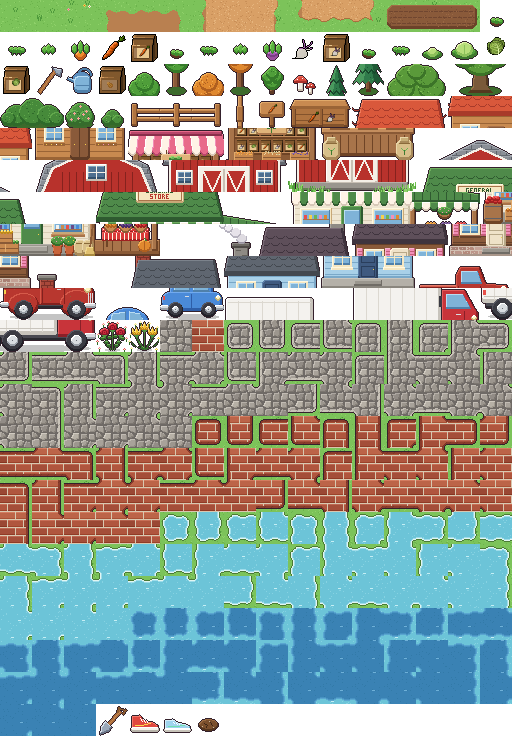
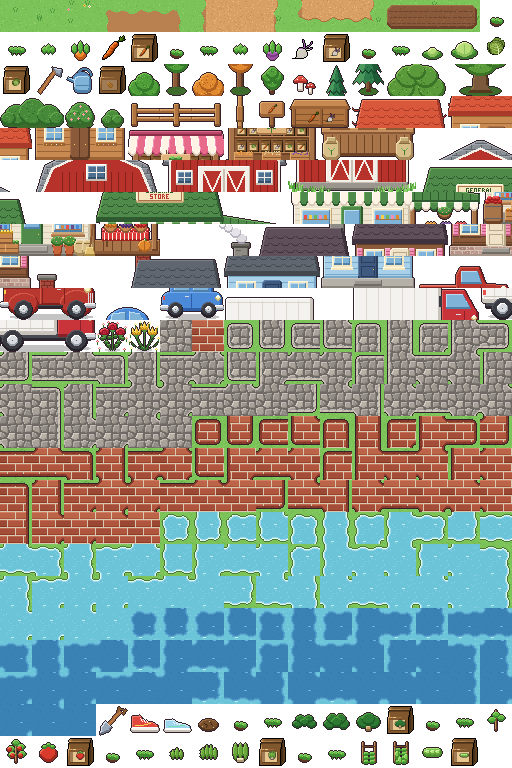
Seasonal crops (spinach, tomatoes, arugula, peas) and time-of-day and seasonal villager chatter
Seasonal crops only grow in their season, wither when it ends, and the
seed shop sells them in season. Quests only ask for crops in season.

Claude-Session: https://claude.ai/code/session_015p9zHqe761HPZ9r97hGy59

diff --git a/src/scenes.js b/src/scenes.js
@@ -1,9 +1,9 @@
 // Game scenes: main menu -> character select -> farm.
 import { TILE, DIRS, Walker } from './engine.js';
-import { Clock, MAX_ENERGY, SEASONS } from './clock.js';
+import { Clock, MAX_ENERGY, SEASONS, DAYS_PER_SEASON } from './clock.js';
 import { editorMaps, exitRows, isPaved } from './map-data.js';
 import { LOCATIONS } from './locations.js';
-import { CROPS, SEEDS, Field } from './crops.js';
+import { CROPS, SEEDS, Field, aCrop, nCrops, inSeason } from './crops.js';
 import { settings, saveSettings, DAY_SPEEDS, sfx, playMusic, stopMusic, musicName } from './audio.js';
 import { SLOTS, listSaves, readSave, writeSave, deleteSave } from './save.js';
 import { Villager, spawnVillagers, randomSpot, fits, feet, overlaps, planRoute, KEEPERS } from './villagers.js';
@@ -11,7 +11,7 @@ import { SCHEDULES, activity, weekday } from './schedule.js';
 import { GOODS, STORE_HOURS, WEAR_SLOTS, storeOpen } from './store.js';
 import { PLANTS, DIG_SPOTS, DIG_ENERGY, scatterDigs, digFind } from './dig.js';
 import { A } from './art-index.js';
-import { Support, PEOPLE, PERK_AT, MAX_HEARTS } from './support.js';
+import { Support, PEOPLE, PERK_AT, MAX_HEARTS, chatter } from './support.js';
 import { Inventory, TOOLS, HOTBAR, LOCKED, BAG, BIN } from './inventory.js';
 
 const CHARACTERS = [
@@ -180,7 +180,7 @@ export class World {
     this.support = new Support(); this.talk = null; this.fade = null;
     this.inv = new Inventory();
     this.gold = 200;
-    this.seeds = { carrot: 5, turnip: 0, cabbage: 0 };
+    this.seeds = { ...Object.fromEntries(SEEDS.map(c => [c, 0])), carrot: 5 };
     this.gear = {}; // things bought at the general store: id -> true
     this.worn = {}; // equipment slot -> id from GOODS
     this.moved = { gone: [], put: [] }; // farm plants moved with the shovel: tiles dug up, and [tile, plant] planted
@@ -189,15 +189,17 @@ export class World {
     this.shop = false;
     this.open = false; this.pick = -1;
     this.clock.on('overnight', () => {
-      this.field.overnight(); this.support.overnight(); this.scatterDigs();
-      this.paid = this.binValue(this.inv.emptyBin());
+      const k = this.clock, next = k.day >= DAYS_PER_SEASON ? (k.season + 1) % SEASONS.length : k.season;
+      this.field.overnight(); this.support.overnight(Math.random, next); this.scatterDigs();
+      this.paid = this.binValue(this.inv.emptyBin()); this.withered = 0;
       this.gold += this.paid;
     });
     this.toast = '';
+    this.clock.on('season', k => { this.withered = this.field.wither(k.season); });
     this.clock.on('newDay', ({ passedOut }) => {
       this.map = this.maps.farm; Object.assign(this, this.map.spawn); this.player.dir = DIRS.down; // wake up outside the front door
       const saved = writeSave(this.slot, this.snapshot());
-      this.say((passedOut ? 'You passed out! Half energy today.' : 'Good morning!') + (this.paid ? ` Shipping paid ${this.paid}g.` : '') + (saved ? ' Game saved.' : ''));
+      this.say((passedOut ? 'You passed out! Half energy today.' : 'Good morning!') + (this.paid ? ` Shipping paid ${this.paid}g.` : '') + (this.withered ? ` ${this.withered} out-of-season crop${this.withered > 1 ? 's' : ''} withered.` : '') + (saved ? ' Game saved.' : ''));
     });
     if (this.save) this.restore(this.save); else writeSave(this.slot, this.snapshot());
     playMusic(); // one of two tracks, picked at random each time you enter
@@ -216,7 +218,7 @@ export class World {
     Object.assign(this.clock, s.clock);
     for (const [key, p] of s.plots) if (this.field.has(key)) this.field.plots.set(key, p);
     this.inv.slots = s.slots; this.inv.sel = s.sel;
-    Object.assign(this, { gold: s.gold, seeds: s.seeds, seed: s.seed, gear: s.gear ?? {}, worn: s.worn ?? (s.gear?.shoes ? { shoes: 'shoes' } : {}) });
+    Object.assign(this, { gold: s.gold, seeds: { ...this.seeds, ...s.seeds }, seed: s.seed, gear: s.gear ?? {}, worn: s.worn ?? (s.gear?.shoes ? { shoes: 'shoes' } : {}) });
     this.moved = s.moved ?? { gone: [], put: [] };
     for (const key of this.moved.gone) this.unplant(key);
     for (const [key, id] of this.moved.put) this.plant(key, id);
@@ -255,7 +257,7 @@ export class World {
     if (inp.hit('Slash') || inp.tapIn(...b.help)) return this.openMenu('controls', null);
     if (inp.hit('KeyM') || inp.tapIn(...b.map)) { this.mapView = true; this.mini = null; this.open = this.binOpen = false; return sfx('click'); }
     if (inp.hit('KeyI', ...(this.open ? ['Escape'] : [])) || inp.tapIn(...b.bag) || (this.open && inp.tapIn(...this.closeRect()))) { this.open = !this.open; this.binOpen = false; this.pick = -1; }
-    if (inp.hit('KeyQ', 'Tab')) this.seed = (this.seed + 1) % SEEDS.length;
+    if (inp.hit('KeyQ', 'Tab')) this.nextSeed();
     for (let i = 0; i < HOTBAR; i++) if (inp.hit('Digit' + (i + 1))) inv.sel = i;
     // Tap a slot: select it (tap the seed bag again to change seeds). With the bag open, tap two slots to swap them.
     const n = !this.open ? HOTBAR : HOTBAR + BAG + (this.binOpen ? BIN : 0);
@@ -263,7 +265,7 @@ export class World {
       if (this.open && i >= LOCKED) {
         if (this.pick < 0) this.pick = i; else { inv.swap(this.pick, i); this.pick = -1; }
       } else if (i < HOTBAR) {
-        if (inv.sel === i && inv.held?.id === 'seeds') this.seed = (this.seed + 1) % SEEDS.length;
+        if (inv.sel === i && inv.held?.id === 'seeds') this.nextSeed();
         inv.sel = i;
       }
     }
@@ -360,16 +362,17 @@ export class World {
     if (this.map.bin.includes(key)) { this.open = this.binOpen = true; this.pick = -1; return; }
     if (held === 'shovel') return this.dig(key);
     if (PLANTS[held]) return this.replant(key, held);
-    if (!this.onFarm || !f.has(key)) return CROPS[held] && this.say(`That's a ${CROPS[held].name}.`);
+    if (!this.onFarm || !f.has(key)) return CROPS[held] && this.say(`That's ${aCrop(held)}.`);
     const p = f.get(key), tired = () => { sfx('nope'); this.say('Too tired. Sleep at your front door.'); };
     if (f.isRipe(p)) {
       if (!this.inv.add(p.crop)) return this.say('Your bag is full.');
-      sfx('harvest'); f.act(key); return this.say(`Harvested a ${CROPS[p.crop].name}!`);
+      sfx('harvest'); f.act(key); return this.say(`Harvested ${aCrop(p.crop)}!`);
     }
     if (held === 'seeds') {
       if (p) return this.say(`Something is already growing here.`);
       const seed = SEEDS[this.seed];
       if (!this.seeds[seed]) return this.say(`Out of ${CROPS[seed].name} seeds. Buy more at the shop.`);
+      if (!inSeason(seed, this.clock.season)) return this.say(`${CROPS[seed].name} only grows in ${SEASONS[CROPS[seed].season]}.`);
       if (!this.clock.useEnergy(1)) return tired();
       this.seeds[seed]--;
       sfx('plant'); const r = f.act(key, seed); return this.say(`Planted ${CROPS[r.crop].name} seeds. Water them daily.`);
@@ -402,7 +405,7 @@ export class World {
     const id = v.walker.sheet, who = PEOPLE[id], sup = this.support, held = this.inv.held?.id;
     if (!who) return;
     v.walker.dir = [DIRS.up, DIRS.right, DIRS.left, DIRS.down][this.player.dir]; v.wait = Math.max(v.wait, 2); // turn to face you
-    const lines = [], name = c => CROPS[c].name.toLowerCase();
+    const lines = [], cap = t => t[0].toUpperCase() + t.slice(1);
     let rewards = [];
     const done = sup.turnIn(id, c => this.inv.count(c), (c, n) => this.inv.take(c, n));
     if (done) {
@@ -413,15 +416,16 @@ export class World {
       if (!r) lines.push(`You already gave me something today. Come back tomorrow!`);
       else {
         this.inv.take(held, 1); rewards = r.rewards; sfx(r.taste === 'dislike' ? 'nope' : 'harvest');
-        lines.push({ love: `A ${name(held)}! I love these! Thank you!`, like: `Oh, a ${name(held)}. Thanks!`,
-          neutral: `A ${name(held)}? Thanks, I suppose.`, dislike: `Ugh... a ${name(held)}. Not my favourite.` }[r.taste]);
+        lines.push({ love: `${cap(aCrop(held))}! I love these! Thank you!`, like: `Oh, ${aCrop(held)}. Thanks!`,
+          neutral: `${cap(aCrop(held))}? Thanks, I suppose.`, dislike: `Ugh... ${aCrop(held)}. Not my favourite.` }[r.taste]);
       }
     } else {
       rewards = sup.talk(id);
-      lines.push(who.hello[Math.floor(Math.random() * who.hello.length)]);
+      const say = [...who.hello, ...chatter(this.clock.minutes, this.clock.season)];
+      lines.push(say[Math.floor(Math.random() * say.length)]);
     }
     const q = sup.people[id].quest;
-    if (q) lines.push(`Could you bring me ${q.n} ${name(q.item)}${q.n > 1 ? 's' : ''}? I'll pay ${q.gold}g. (${q.days} day${q.days > 1 ? 's' : ''} left)`);
+    if (q) lines.push(`Could you bring me ${q.n} ${nCrops(q.item, q.n)}? I'll pay ${q.gold}g. (${q.days} day${q.days > 1 ? 's' : ''} left)`);
     for (const r of rewards) {
       const got = [r.gold && `${r.gold}g`, ...Object.entries(r.seeds ?? {}).map(([c, n]) => `${n} ${CROPS[c].name} seeds`)].filter(Boolean);
       if (r.gold) this.gold += r.gold;
@@ -536,7 +540,7 @@ export class World {
       g.text(who.name, x + 8, yy, { size: 6, color: '#fff3a8' });
       drawHearts(g, x + w - 8 - MAX_HEARTS * 6, yy + 2, n);
       const q = p.quest;
-      g.text(q ? `Wants ${q.n} ${CROPS[q.item].name}${q.n > 1 ? "s" : ""} · ${q.gold}g · ${q.days}d left` : 'No request right now', x + 8, yy + 8, { size: 5 });
+      g.text(q ? `Wants ${q.n} ${nCrops(q.item, q.n)} · ${q.gold}g · ${q.days}d left` : 'No request right now', x + 8, yy + 8, { size: 5 });
       g.text(`${n >= PERK_AT ? 'Perk' : `Perk at ${PERK_AT} hearts`}: ${who.perk.text}`, x + 8, yy + 15, { size: 5, color: n >= PERK_AT ? '#86cf5e' : '#dcebc6' });
     });
     if (this.menu === 'equipment') {
@@ -591,7 +595,7 @@ export class World {
       const f = digFind(); m.digs.delete(key); sfx('dig');
       if (f.gold) { this.gold += f.gold; sfx('coin'); return this.say(`Found some old coins! (+${f.gold}g)`); }
       if (f.seeds) { this.seeds[f.seeds] += f.n; return this.say(`Found ${f.n} ${CROPS[f.seeds].name} seeds!`); }
-      if (f.item) return this.say(this.inv.add(f.item) ? `Found a wild ${CROPS[f.item].name}!` : 'Found something, but your bag is full.');
+      if (f.item) return this.say(this.inv.add(f.item) ? `Found ${aCrop(f.item)}, growing wild!` : 'Found something, but your bag is full.');
       if (f.plant) return this.say(this.inv.add(f.plant) ? `Found ${PLANTS[f.plant].name}! Plant it on your farm.` : 'Found something, but your bag is full.');
       return this.say('Just dirt this time.');
     }
@@ -627,10 +631,16 @@ export class World {
     this.shop = v.walker.sheet; sfx('click');
   }
 
-  // Seed shop: buy seeds, sell crops.
+  // Next seed you have any of (Q, or tapping the seed bag again).
+  nextSeed() {
+    for (let i = 1; i <= SEEDS.length; i++) if (this.seeds[SEEDS[(this.seed + i) % SEEDS.length]]) { this.seed = (this.seed + i) % SEEDS.length; return; }
+    this.seed = (this.seed + 1) % SEEDS.length;
+  }
+  // Seed shop: buy seeds (year-round ones and this season's), sell crops.
+  shopSeeds() { return SEEDS.filter(c => inSeason(c, this.clock.season)); }
   shopRows() {
-    const g = this.g, x = Math.round(g.w / 2 - 70), y = Math.round(g.h / 2 - 56);
-    return { x, y, buy: SEEDS.map((_, i) => [x + 4, y + 16 + i * 20, 132, 18]), sell: [x + 4, y + 78, 64, 14], close: [x + 72, y + 78, 64, 14] };
+    const g = this.g, n = this.shopSeeds().length, h = 38 + n * 20, x = Math.round(g.w / 2 - 70), y = Math.round(g.h / 2 - h / 2);
+    return { x, y, h, buy: this.shopSeeds().map((_, i) => [x + 4, y + 16 + i * 20, 132, 18]), sell: [x + 4, y + 18 + n * 20, 64, 14], close: [x + 72, y + 18 + n * 20, 64, 14] };
   }
   shopUpdate(inp, dt) {
     const r = this.shopRows();
@@ -638,7 +648,7 @@ export class World {
     if (this.toastT > 0) this.toastT -= dt;
     this.player.update(dt, false);
     if (this.shop === 'storekeeper') return this.storeUpdate(inp);
-    SEEDS.forEach((s, i) => {
+    this.shopSeeds().forEach((s, i) => {
       if (!inp.hit('Digit' + (i + 1)) && !inp.tapIn(...r.buy[i])) return;
       const c = CROPS[s];
       if (this.gold < this.seedCost(c)) return this.say(`Not enough gold for ${c.name} seeds.`);
@@ -653,11 +663,11 @@ export class World {
   drawShop() {
     if (this.shop === 'storekeeper') return this.drawStore();
     const g = this.g, r = this.shopRows();
-    g.panel(r.x, r.y, 140, 96, '#3f2631ee');
+    g.panel(r.x, r.y, 140, r.h, '#3f2631ee');
     const keeper = typeof this.shop === 'string' && this.shop; // whose shop (true: an old-style shop with no keeper)
     if (keeper && this.villagers.some(v => v.walker.sheet === keeper)) { g.panel(r.x - 26, r.y, 24, 24, '#3f2631ee'); new Walker(keeper).draw(g, r.x - 22, r.y + 2); }
     g.text(`${KEEPERS[keeper]?.title ?? 'Seed Shop'} · ${this.gold}g`, r.x + 70, r.y + 4, { size: 7, align: 'center', color: '#fff3a8' });
-    SEEDS.forEach((s, i) => {
+    this.shopSeeds().forEach((s, i) => {
       const c = CROPS[s], [x, y, w, h] = r.buy[i];
       g.panel(x, y, w, h, '#5d7150cc');
       g.tile(c.packet, x + 1, y + 1);

diff --git a/src/art-index.js b/src/art-index.js
@@ -1,2 +1,2 @@
 // Generated by tools/make_art.py: tile names -> index in assets/art/world.png (16 columns of 32x32).
-export const A = {"grass0": 0, "grass1": 1, "grass2": 2, "path0": 3, "path1": 4, "path2": 5, "path3": 6, "path4": 7, "path5": 8, "path6": 9, "path7": 10, "path8": 11, "soil0": 12, "soil1": 13, "soil2": 14, "carrot0": 15, "carrot1": 16, "carrot2": 17, "carrot3": 18, "carrot_item": 19, "carrot_packet": 20, "turnip0": 21, "turnip1": 22, "turnip2": 23, "turnip3": 24, "turnip_item": 25, "turnip_packet": 26, "cabbage0": 27, "cabbage1": 28, "cabbage2": 29, "cabbage3": 30, "cabbage_item": 31, "cabbage_packet": 32, "hoe": 33, "can": 34, "bag": 35, "tree_green_0": 36, "tree_green_1": 37, "tree_orange_0": 38, "tree_orange_1": 39, "tree": 40, "mushrooms": 41, "pine_0": 42, "pine_1": 43, "oak_0": 44, "oak_1": 45, "oak_2": 46, "oak_3": 47, "shrub_large_0": 48, "shrub_large_1": 49, "shrub_flower": 50, "shrub_small": 51, "fence0": 52, "fence1": 53, "fence2": 54, "fence3": 55, "sign": 56, "bin_0": 57, "bin_1": 58, "house_0": 59, "house_1": 60, "house_2": 61, "house_3": 62, "house_4": 63, "house_5": 64, "house_6": 65, "house_7": 66, "house_8": 67, "shop_0": 68, "shop_1": 69, "shop_2": 70, "shop_3": 71, "shop_4": 72, "shop_5": 73, "shop_6": 74, "shop_7": 75, "shop_8": 76, "barn_0": 77, "barn_1": 78, "barn_2": 79, "barn_3": 80, "barn_4": 81, "barn_5": 82, "barn_6": 83, "barn_7": 84, "barn_8": 85, "barn_9": 86, "barn_10": 87, "barn_11": 88, "barn_12": 89, "barn_13": 90, "barn_14": 91, "barn_15": 92, "store_0": 93, "store_1": 94, "store_2": 95, "store_3": 96, "store_4": 97, "store_5": 98, "store_6": 99, "store_7": 100, "store_8": 101, "store_9": 102, "store_10": 103, "store_11": 104, "store_12": 105, "store_13": 106, "store_14": 107, "store_15": 108, "store_16": 109, "store_17": 110, "store_18": 111, "store_19": 112, "store_20": 113, "store_21": 114, "store_22": 115, "store_23": 116, "house_brown_0": 117, "house_brown_1": 118, "house_brown_2": 119, "house_brown_3": 120, "house_brown_4": 121, "house_brown_5": 122, "house_brown_6": 123, "house_brown_7": 124, "house_brown_8": 125, "house_brown_9": 126, "house_brown_10": 127, "house_brown_11": 128, "house_blue_0": 129, "house_blue_1": 130, "house_blue_2": 131, "house_blue_3": 132, "house_blue_4": 133, "house_blue_5": 134, "house_blue_6": 135, "house_blue_7": 136, "house_blue_8": 137, "house_blue_9": 138, "house_blue_10": 139, "house_blue_11": 140, "pickup_0": 141, "pickup_1": 142, "pickup_2": 143, "pickup_3": 144, "pickup_4": 145, "pickup_5": 146, "car_small_0": 147, "car_small_1": 148, "car_small_2": 149, "car_small_3": 150, "box_truck_0": 151, "box_truck_1": 152, "box_truck_2": 153, "box_truck_3": 154, "box_truck_4": 155, "box_truck_5": 156, "box_truck_6": 157, "box_truck_7": 158, "box_truck_8": 159, "box_truck_9": 160, "box_truck_10": 161, "box_truck_11": 162, "roses": 163, "tulips": 164, "cobble0": 165, "brick0": 166, "cobbleb0": 167, "cobbleb1": 168, "cobbleb2": 169, "cobbleb3": 170, "cobbleb4": 171, "cobbleb5": 172, "cobbleb6": 173, "cobbleb7": 174, "cobbleb8": 175, "cobbleb9": 176, "cobbleb10": 177, "cobbleb11": 178, "cobbleb12": 179, "cobbleb13": 180, "cobbleb14": 181, "cobbleb15": 182, "cobbleb16": 183, "cobbleb17": 184, "cobbleb18": 185, "cobbleb19": 186, "cobbleb20": 187, "cobbleb21": 188, "cobbleb22": 189, "cobbleb23": 190, "cobbleb24": 191, "cobbleb25": 192, "cobbleb26": 193, "cobbleb27": 194, "cobbleb28": 195, "cobbleb29": 196, "cobbleb30": 197, "cobbleb31": 198, "cobbleb32": 199, "cobbleb33": 200, "cobbleb34": 201, "cobbleb35": 202, "cobbleb36": 203, "cobbleb37": 204, "cobbleb38": 205, "cobbleb39": 206, "cobbleb40": 207, "cobbleb41": 208, "cobbleb42": 209, "cobbleb43": 210, "cobbleb44": 211, "cobbleb45": 212, "cobbleb46": 213, "brickb0": 214, "brickb1": 215, "brickb2": 216, "brickb3": 217, "brickb4": 218, "brickb5": 219, "brickb6": 220, "brickb7": 221, "brickb8": 222, "brickb9": 223, "brickb10": 224, "brickb11": 225, "brickb12": 226, "brickb13": 227, "brickb14": 228, "brickb15": 229, "brickb16": 230, "brickb17": 231, "brickb18": 232, "brickb19": 233, "brickb20": 234, "brickb21": 235, "brickb22": 236, "brickb23": 237, "brickb24": 238, "brickb25": 239, "brickb26": 240, "brickb27": 241, "brickb28": 242, "brickb29": 243, "brickb30": 244, "brickb31": 245, "brickb32": 246, "brickb33": 247, "brickb34": 248, "brickb35": 249, "brickb36": 250, "brickb37": 251, "brickb38": 252, "brickb39": 253, "brickb40": 254, "brickb41": 255, "brickb42": 256, "brickb43": 257, "brickb44": 258, "brickb45": 259, "brickb46": 260, "shallow0": 261, "shallow1": 262, "shallow2": 263, "shallow3": 264, "shallow4": 265, "shallow5": 266, "shallow6": 267, "shallow7": 268, "shallow8": 269, "shallow9": 270, "shallow10": 271, "shallow11": 272, "shallow12": 273, "shallow13": 274, "shallow14": 275, "shallow15": 276, "shallow16": 277, "shallow17": 278, "shallow18": 279, "shallow19": 280, "shallow20": 281, "shallow21": 282, "shallow22": 283, "shallow23": 284, "shallow24": 285, "shallow25": 286, "shallow26": 287, "shallow27": 288, "shallow28": 289, "shallow29": 290, "shallow30": 291, "shallow31": 292, "shallow32": 293, "shallow33": 294, "shallow34": 295, "shallow35": 296, "shallow36": 297, "shallow37": 298, "shallow38": 299, "shallow39": 300, "shallow40": 301, "shallow41": 302, "shallow42": 303, "shallow43": 304, "shallow44": 305, "shallow45": 306, "shallow46": 307, "deep0": 308, "deep1": 309, "deep2": 310, "deep3": 311, "deep4": 312, "deep5": 313, "deep6": 314, "deep7": 315, "deep8": 316, "deep9": 317, "deep10": 318, "deep11": 319, "deep12": 320, "deep13": 321, "deep14": 322, "deep15": 323, "deep16": 324, "deep17": 325, "deep18": 326, "deep19": 327, "deep20": 328, "deep21": 329, "deep22": 330, "deep23": 331, "deep24": 332, "deep25": 333, "deep26": 334, "deep27": 335, "deep28": 336, "deep29": 337, "deep30": 338, "deep31": 339, "deep32": 340, "deep33": 341, "deep34": 342, "deep35": 343, "deep36": 344, "deep37": 345, "deep38": 346, "deep39": 347, "deep40": 348, "deep41": 349, "deep42": 350, "deep43": 351, "deep44": 352, "deep45": 353, "deep46": 354, "shovel": 355, "shoes": 356, "sneakers": 357, "dig_spot": 358};
+export const A = {"grass0": 0, "grass1": 1, "grass2": 2, "path0": 3, "path1": 4, "path2": 5, "path3": 6, "path4": 7, "path5": 8, "path6": 9, "path7": 10, "path8": 11, "soil0": 12, "soil1": 13, "soil2": 14, "carrot0": 15, "carrot1": 16, "carrot2": 17, "carrot3": 18, "carrot_item": 19, "carrot_packet": 20, "turnip0": 21, "turnip1": 22, "turnip2": 23, "turnip3": 24, "turnip_item": 25, "turnip_packet": 26, "cabbage0": 27, "cabbage1": 28, "cabbage2": 29, "cabbage3": 30, "cabbage_item": 31, "cabbage_packet": 32, "hoe": 33, "can": 34, "bag": 35, "tree_green_0": 36, "tree_green_1": 37, "tree_orange_0": 38, "tree_orange_1": 39, "tree": 40, "mushrooms": 41, "pine_0": 42, "pine_1": 43, "oak_0": 44, "oak_1": 45, "oak_2": 46, "oak_3": 47, "shrub_large_0": 48, "shrub_large_1": 49, "shrub_flower": 50, "shrub_small": 51, "fence0": 52, "fence1": 53, "fence2": 54, "fence3": 55, "sign": 56, "bin_0": 57, "bin_1": 58, "house_0": 59, "house_1": 60, "house_2": 61, "house_3": 62, "house_4": 63, "house_5": 64, "house_6": 65, "house_7": 66, "house_8": 67, "shop_0": 68, "shop_1": 69, "shop_2": 70, "shop_3": 71, "shop_4": 72, "shop_5": 73, "shop_6": 74, "shop_7": 75, "shop_8": 76, "barn_0": 77, "barn_1": 78, "barn_2": 79, "barn_3": 80, "barn_4": 81, "barn_5": 82, "barn_6": 83, "barn_7": 84, "barn_8": 85, "barn_9": 86, "barn_10": 87, "barn_11": 88, "barn_12": 89, "barn_13": 90, "barn_14": 91, "barn_15": 92, "store_0": 93, "store_1": 94, "store_2": 95, "store_3": 96, "store_4": 97, "store_5": 98, "store_6": 99, "store_7": 100, "store_8": 101, "store_9": 102, "store_10": 103, "store_11": 104, "store_12": 105, "store_13": 106, "store_14": 107, "store_15": 108, "store_16": 109, "store_17": 110, "store_18": 111, "store_19": 112, "store_20": 113, "store_21": 114, "store_22": 115, "store_23": 116, "house_brown_0": 117, "house_brown_1": 118, "house_brown_2": 119, "house_brown_3": 120, "house_brown_4": 121, "house_brown_5": 122, "house_brown_6": 123, "house_brown_7": 124, "house_brown_8": 125, "house_brown_9": 126, "house_brown_10": 127, "house_brown_11": 128, "house_blue_0": 129, "house_blue_1": 130, "house_blue_2": 131, "house_blue_3": 132, "house_blue_4": 133, "house_blue_5": 134, "house_blue_6": 135, "house_blue_7": 136, "house_blue_8": 137, "house_blue_9": 138, "house_blue_10": 139, "house_blue_11": 140, "pickup_0": 141, "pickup_1": 142, "pickup_2": 143, "pickup_3": 144, "pickup_4": 145, "pickup_5": 146, "car_small_0": 147, "car_small_1": 148, "car_small_2": 149, "car_small_3": 150, "box_truck_0": 151, "box_truck_1": 152, "box_truck_2": 153, "box_truck_3": 154, "box_truck_4": 155, "box_truck_5": 156, "box_truck_6": 157, "box_truck_7": 158, "box_truck_8": 159, "box_truck_9": 160, "box_truck_10": 161, "box_truck_11": 162, "roses": 163, "tulips": 164, "cobble0": 165, "brick0": 166, "cobbleb0": 167, "cobbleb1": 168, "cobbleb2": 169, "cobbleb3": 170, "cobbleb4": 171, "cobbleb5": 172, "cobbleb6": 173, "cobbleb7": 174, "cobbleb8": 175, "cobbleb9": 176, "cobbleb10": 177, "cobbleb11": 178, "cobbleb12": 179, "cobbleb13": 180, "cobbleb14": 181, "cobbleb15": 182, "cobbleb16": 183, "cobbleb17": 184, "cobbleb18": 185, "cobbleb19": 186, "cobbleb20": 187, "cobbleb21": 188, "cobbleb22": 189, "cobbleb23": 190, "cobbleb24": 191, "cobbleb25": 192, "cobbleb26": 193, "cobbleb27": 194, "cobbleb28": 195, "cobbleb29": 196, "cobbleb30": 197, "cobbleb31": 198, "cobbleb32": 199, "cobbleb33": 200, "cobbleb34": 201, "cobbleb35": 202, "cobbleb36": 203, "cobbleb37": 204, "cobbleb38": 205, "cobbleb39": 206, "cobbleb40": 207, "cobbleb41": 208, "cobbleb42": 209, "cobbleb43": 210, "cobbleb44": 211, "cobbleb45": 212, "cobbleb46": 213, "brickb0": 214, "brickb1": 215, "brickb2": 216, "brickb3": 217, "brickb4": 218, "brickb5": 219, "brickb6": 220, "brickb7": 221, "brickb8": 222, "brickb9": 223, "brickb10": 224, "brickb11": 225, "brickb12": 226, "brickb13": 227, "brickb14": 228, "brickb15": 229, "brickb16": 230, "brickb17": 231, "brickb18": 232, "brickb19": 233, "brickb20": 234, "brickb21": 235, "brickb22": 236, "brickb23": 237, "brickb24": 238, "brickb25": 239, "brickb26": 240, "brickb27": 241, "brickb28": 242, "brickb29": 243, "brickb30": 244, "brickb31": 245, "brickb32": 246, "brickb33": 247, "brickb34": 248, "brickb35": 249, "brickb36": 250, "brickb37": 251, "brickb38": 252, "brickb39": 253, "brickb40": 254, "brickb41": 255, "brickb42": 256, "brickb43": 257, "brickb44": 258, "brickb45": 259, "brickb46": 260, "shallow0": 261, "shallow1": 262, "shallow2": 263, "shallow3": 264, "shallow4": 265, "shallow5": 266, "shallow6": 267, "shallow7": 268, "shallow8": 269, "shallow9": 270, "shallow10": 271, "shallow11": 272, "shallow12": 273, "shallow13": 274, "shallow14": 275, "shallow15": 276, "shallow16": 277, "shallow17": 278, "shallow18": 279, "shallow19": 280, "shallow20": 281, "shallow21": 282, "shallow22": 283, "shallow23": 284, "shallow24": 285, "shallow25": 286, "shallow26": 287, "shallow27": 288, "shallow28": 289, "shallow29": 290, "shallow30": 291, "shallow31": 292, "shallow32": 293, "shallow33": 294, "shallow34": 295, "shallow35": 296, "shallow36": 297, "shallow37": 298, "shallow38": 299, "shallow39": 300, "shallow40": 301, "shallow41": 302, "shallow42": 303, "shallow43": 304, "shallow44": 305, "shallow45": 306, "shallow46": 307, "deep0": 308, "deep1": 309, "deep2": 310, "deep3": 311, "deep4": 312, "deep5": 313, "deep6": 314, "deep7": 315, "deep8": 316, "deep9": 317, "deep10": 318, "deep11": 319, "deep12": 320, "deep13": 321, "deep14": 322, "deep15": 323, "deep16": 324, "deep17": 325, "deep18": 326, "deep19": 327, "deep20": 328, "deep21": 329, "deep22": 330, "deep23": 331, "deep24": 332, "deep25": 333, "deep26": 334, "deep27": 335, "deep28": 336, "deep29": 337, "deep30": 338, "deep31": 339, "deep32": 340, "deep33": 341, "deep34": 342, "deep35": 343, "deep36": 344, "deep37": 345, "deep38": 346, "deep39": 347, "deep40": 348, "deep41": 349, "deep42": 350, "deep43": 351, "deep44": 352, "deep45": 353, "deep46": 354, "shovel": 355, "shoes": 356, "sneakers": 357, "dig_spot": 358, "spinach0": 359, "spinach1": 360, "spinach2": 361, "spinach3": 362, "spinach_item": 363, "spinach_packet": 364, "tomato0": 365, "tomato1": 366, "tomato2": 367, "tomato3": 368, "tomato_item": 369, "tomato_packet": 370, "arugula0": 371, "arugula1": 372, "arugula2": 373, "arugula3": 374, "arugula_item": 375, "arugula_packet": 376, "peas0": 377, "peas1": 378, "peas2": 379, "peas3": 380, "peas_item": 381, "peas_packet": 382};

diff --git a/src/crops.js b/src/crops.js
@@ -3,8 +3,17 @@ export const CROPS = {
   carrot:  { name: 'Carrot',  days: 3, price: 35,  seed: 15, stages: ['carrot0', 'carrot1', 'carrot2', 'carrot3'],     item: 'carrot_item',  packet: 'carrot_packet' },
   turnip:  { name: 'Turnip',  days: 4, price: 50,  seed: 20, stages: ['turnip0', 'turnip1', 'turnip2', 'turnip3'], item: 'turnip_item', packet: 'turnip_packet' },
   cabbage: { name: 'Cabbage', days: 6, price: 90,  seed: 40, stages: ['cabbage0', 'cabbage1', 'cabbage2', 'cabbage3'], item: 'cabbage_item', packet: 'cabbage_packet' },
+  // Seasonal crops (season is an index into SEASONS): they only grow in their season and wither when it ends.
+  spinach: { name: 'Spinach', days: 4, price: 60,  seed: 25, season: 0, some: true, stages: ['spinach0', 'spinach1', 'spinach2', 'spinach3'], item: 'spinach_item', packet: 'spinach_packet' },
+  tomato:  { name: 'Tomato',  days: 7, price: 110, seed: 45, season: 1, plural: 'tomatoes', stages: ['tomato0', 'tomato1', 'tomato2', 'tomato3'], item: 'tomato_item', packet: 'tomato_packet' },
+  arugula: { name: 'Arugula', days: 4, price: 55,  seed: 22, season: 2, some: true, stages: ['arugula0', 'arugula1', 'arugula2', 'arugula3'], item: 'arugula_item', packet: 'arugula_packet' },
+  peas:    { name: 'Peas',    days: 5, price: 70,  seed: 30, season: 3, some: true, plural: 'peas', stages: ['peas0', 'peas1', 'peas2', 'peas3'], item: 'peas_item', packet: 'peas_packet' },
 };
 export const SEEDS = Object.keys(CROPS);
+// "a carrot" / "some peas", and "carrots" / "tomatoes" / "spinach" for n of them.
+export const aCrop = c => (CROPS[c].some ? 'some ' : 'a ') + CROPS[c].name.toLowerCase();
+export const nCrops = (c, n) => n > 1 ? CROPS[c].plural ?? CROPS[c].name.toLowerCase() + (CROPS[c].some ? '' : 's') : CROPS[c].name.toLowerCase();
+export const inSeason = (crop, season) => CROPS[crop].season === undefined || CROPS[crop].season === season;
 
 export class Field {
   constructor(plots) { this.plots = new Map(plots.map(k => [k, null])); }
@@ -34,5 +43,12 @@ export class Field {
       if (p.wet && !this.isRipe(p)) p.grown++;
       p.wet = false;
     }
+  }
+
+  // A new season: crops from the old one wither. Returns how many.
+  wither(season) {
+    let n = 0;
+    for (const [k, p] of this.plots) if (p && !inSeason(p.crop, season)) { this.plots.set(k, null); n++; }
+    return n;
   }
 }

diff --git a/src/support.js b/src/support.js
@@ -1,5 +1,5 @@
 // Support: friendship with each villager, raised by talking, gifts and quests. Hearts unlock rewards and perks.
-import { CROPS, SEEDS } from './crops.js';
+import { CROPS, SEEDS, inSeason } from './crops.js';
 
 export const PER_HEART = 100, MAX_HEARTS = 10;
 const TALK = 10, GIFT = { love: 80, like: 45, neutral: 20, dislike: -30 }, QUEST_PTS = 60, QUEST_DAYS = 3, QUEST_CHANCE = 0.35;
@@ -14,6 +14,16 @@ export const PEOPLE = {
   villager_child: { name: 'Pip', loves: ['carrot'], likes: [], dislikes: ['cabbage'],
     perk: { id: 'green_thumb', text: 'Watering takes no energy' }, hello: ['How is your farm?'] },
 };
+// Things anyone might say, by time of day (minutes since midnight) and season.
+const SEASON_LINES = ['The local flowers are beautiful! You should take a look!', "That sun is blazing! I wish I had a fan...",
+  "There's nothing like the fall colors.", 'Brrrr...'];
+export function chatter(minutes, season) {
+  const h = minutes / 60, out = [SEASON_LINES[season]];
+  if (h >= 6 && h < 11) out.push('Good morning!');
+  else if (h >= 12 && h < 16) out.push("There's so much day left!");
+  else if (h >= 16) out.push('The Sun is getting low.');
+  return out;
+}
 // Rewards for reaching each heart level, once each (the perk comes at PERK_AT).
 export const REWARDS = { 2: { gold: 100 }, 4: { seeds: 5 }, 7: { gold: 300 }, 10: { gold: 1000 } };
 
@@ -62,12 +72,14 @@ export class Support {
   }
 
   // Each night: new day's talk and gift, quests count down, and some villagers ask for something new.
-  overnight(rand = Math.random) {
+  // Quests only ask for crops that grow in `season` (the season of the coming day).
+  overnight(rand = Math.random, season) {
+    const crops = SEEDS.filter(c => season === undefined ? CROPS[c].season === undefined : inSeason(c, season));
     for (const [id, p] of Object.entries(this.people)) {
       p.talked = p.gifted = false;
       if (p.quest && --p.quest.days <= 0) p.quest = null;
       if (!p.quest && rand() < QUEST_CHANCE) {
-        const item = SEEDS[Math.floor(rand() * SEEDS.length)], n = 1 + Math.floor(rand() * 3);
+        const item = crops[Math.floor(rand() * crops.length)], n = 1 + Math.floor(rand() * 3);
         p.quest = { item, n, gold: Math.round(CROPS[item].price * n * 1.5), days: QUEST_DAYS };
       }
     }

diff --git a/test/support.test.js b/test/support.test.js
@@ -38,3 +38,14 @@ test('quests: offered overnight, handed in for gold, expire', () => {
   const saved = JSON.parse(JSON.stringify(s.state));
   assert.equal(new Support(saved).people.villager_male.pts, s.people.villager_male.pts);
 });
+
+test('villagers chat about the time of day and season, and only ask for crops in season', async () => {
+  const { chatter } = await import('../src/support.js');
+  assert.deepEqual(chatter(7 * 60, 3), ['Brrrr...', 'Good morning!']);
+  assert.equal(chatter(13 * 60, 0)[1], "There's so much day left!");
+  assert.equal(chatter(17 * 60, 1)[1], 'The Sun is getting low.');
+  assert.equal(chatter(11.5 * 60, 2).length, 1);
+  const s = new Support(), seen = new Set();
+  for (let i = 0; i < 200; i++) { s.overnight(Math.random, 3); for (const p of Object.values(s.people)) { if (p.quest) seen.add(p.quest.item); p.quest = null; } }
+  assert.ok(seen.has('peas')); assert.ok(!seen.has('tomato'));
+});

diff --git a/test/crops.test.js b/test/crops.test.js
@@ -21,3 +21,12 @@ test('unwatered crops do not grow, and non-field tiles are ignored', () => {
   assert.equal(f.get('0,0').grown, 0);
   assert.equal(f.act('5,5', 'turnip'), null);
 });
+
+test('seasonal crops wither when their season ends; year-round ones keep growing', async () => {
+  const { inSeason } = await import('../src/crops.js');
+  assert.equal(inSeason('tomato', 1), true); assert.equal(inSeason('tomato', 2), false); assert.equal(inSeason('carrot', 3), true);
+  const f = new Field(['0,0', '1,0']);
+  f.act('0,0', 'tomato'); f.act('1,0', 'carrot');
+  assert.equal(f.wither(2), 1);
+  assert.equal(f.get('0,0'), null); assert.equal(f.get('1,0').crop, 'carrot');
+});

diff --git a/tools/make_art.py b/tools/make_art.py
@@ -94,6 +94,7 @@ def crop(kind, stage):
     if stage == 0:
         shape(im, lambda d: d.ellipse([11, 19, 21, 25]), '#7a4c30', '#946039', '#5c3822', 1); sprouts(im, 2, 4, 4)
     elif stage == 1: sprouts(im, 3, 7, 4)
+    elif kind in SEASONAL: seasonal_crop(im, kind, stage)
     elif kind == 'cabbage':
         r = 6 if stage == 2 else 9
         shape(im, lambda d: d.ellipse([16 - r - 3, 24 - r, 16 + r + 3, 26]), '#4f9e3a', '#6cbf4a', '#3e7a2e')
@@ -107,6 +108,46 @@ def crop(kind, stage):
         for a in ((-6, 9), (0, 12), (6, 9)) if stage == 3 else ((-4, 7), (0, 9), (4, 7)):
             x, h = 16 + a[0], a[1]
             shape(im, lambda d, x=x, h=h: d.ellipse([x - 2, 21 - h, x + 2, 21]), *LEAF, d=1)
+    return outline(im)
+
+# Seasonal crops, drawn from scratch: spinach (spring), tomato (summer), arugula (fall), peas (winter).
+SEASONAL = ('spinach', 'tomato', 'arugula', 'peas')
+def leaf(im, x, y, w, h, cols): shape(im, lambda d: d.ellipse([x, y, x + w, y + h]), *cols, d=1)
+def seasonal_crop(im, kind, stage):
+    big = stage == 3; d = ImageDraw.Draw(im)
+    if kind == 'spinach':  # a low rosette of round dark leaves
+        r = 5 if big else 4
+        for a in ((-7, 2), (7, 2), (-4, -3), (4, -3), (0, 0)): leaf(im, 16 + a[0] - r, 18 + a[1] - r, 2 * r, 2 * r - 1, ('#2f7a32', '#4c9c42', '#1f5a26'))
+    elif kind == 'arugula':  # tall, narrow, notched leaves
+        for x, h in ((-6, 10), (-2, 13), (2, 13), (6, 10)) if big else ((-4, 8), (0, 10), (4, 8)):
+            leaf(im, 15 + x, 22 - h, 3, h, ('#6aa83c', '#8cc85a', '#4a8028'))
+            for y in range(24 - h, 21, 3): d.point((14 + x, y), C('#4a8028'))
+    elif kind == 'tomato':  # a staked bush, with red fruit when ripe
+        shape(im, lambda d: d.rectangle([15, 6, 16, 26]), '#a8744a', '#c48e5e', '#6f4426', 1)
+        for x, y in ((-6, 10), (4, 8), (-5, 16), (5, 15), (-1, 4)) if big else ((-5, 13), (4, 11), (-1, 8)): leaf(im, 16 + x - 3, y, 7, 5, LEAF)
+        if big:
+            for x, y in ((9, 13), (19, 12), (12, 19), (20, 19)): shape(im, lambda d, x=x, y=y: d.ellipse([x - 2, y - 2, x + 2, y + 2]), '#d93a2c', '#f26a50', '#9a2a1f', 1)
+    else:  # peas: a little trellis with vines and pods
+        for x in (10, 22): shape(im, lambda d, x=x: d.rectangle([x, 6, x + 1, 26]), '#a8744a', '#c48e5e', '#6f4426', 1)
+        d.line([(10, 10), (23, 10)], C('#6f4426'))
+        for x in (13, 19):
+            for y in range(12 if big else 16, 26, 4): leaf(im, x - 2, y, 5, 3, LEAF)
+        if big:
+            for x, y in ((11, 15), (20, 18), (14, 21)): shape(im, lambda d, x=x, y=y: d.rounded_rectangle([x, y, x + 3, y + 6], 1), '#7cc84e', '#a8e078', '#4f9030', 1)
+def seasonal_item(kind):
+    im = new(); d = ImageDraw.Draw(im)
+    if kind == 'spinach':
+        for a in ((-5, 0), (5, 0), (0, -3)): leaf(im, 16 + a[0] - 6, 12 + a[1], 12, 11, ('#2f7a32', '#4c9c42', '#1f5a26'))
+        shape(im, lambda d: d.rectangle([14, 22, 18, 26]), '#c8a070', '#e0c090', '#8a6a40', 1)
+    elif kind == 'arugula':
+        for x in (-5, 0, 5): leaf(im, 14 + x, 7, 4, 16, ('#6aa83c', '#8cc85a', '#4a8028'))
+        shape(im, lambda d: d.rectangle([13, 22, 19, 25]), '#e8d8b0', '#fff0d0', '#a89870', 1)
+    elif kind == 'tomato':
+        shape(im, lambda d: d.ellipse([8, 10, 24, 25]), '#d93a2c', '#f26a50', '#9a2a1f')
+        for a in ((-4, 0), (4, 0), (0, -2)): leaf(im, 16 + a[0] - 2, 9 + a[1], 4, 3, LEAF)
+    else:
+        shape(im, lambda d: d.rounded_rectangle([7, 12, 25, 20], 4), '#7cc84e', '#a8e078', '#4f9030')
+        for x in (11, 16, 21): shape(im, lambda d, x=x: d.ellipse([x - 2, 14, x + 2, 18]), '#a8e078', '#d0f0a0', '#6aa83c', 1)
     return outline(im)
 
 # ---------- CC0 items ----------
@@ -868,6 +909,9 @@ blob_set('cobbleb', COB, grass(0), 'kerb'); blob_set('brickb', BRK, grass(0), 'k
 blob_set('shallow', SHAL, grass(0), 'shore'); blob_set('deep', DEEP, SHAL, 'deep')
 add('shovel', shovel()); add('shoes', shoes())
 add('sneakers', sneakers()); add('dig_spot', dig_spot())
+for kind in SEASONAL:
+    for st in range(4): add(f'{kind}{st}', crop(kind, st))
+    add(f'{kind}_item', seasonal_item(kind)); add(f'{kind}_packet', packet(seasonal_item(kind)))
 COLS = 16
 sheet = new(COLS * S, math.ceil(len(cells) / COLS) * S)
 for i, im in enumerate(cells): sheet.alpha_composite(im, ((i % COLS) * S, (i // COLS) * S))
